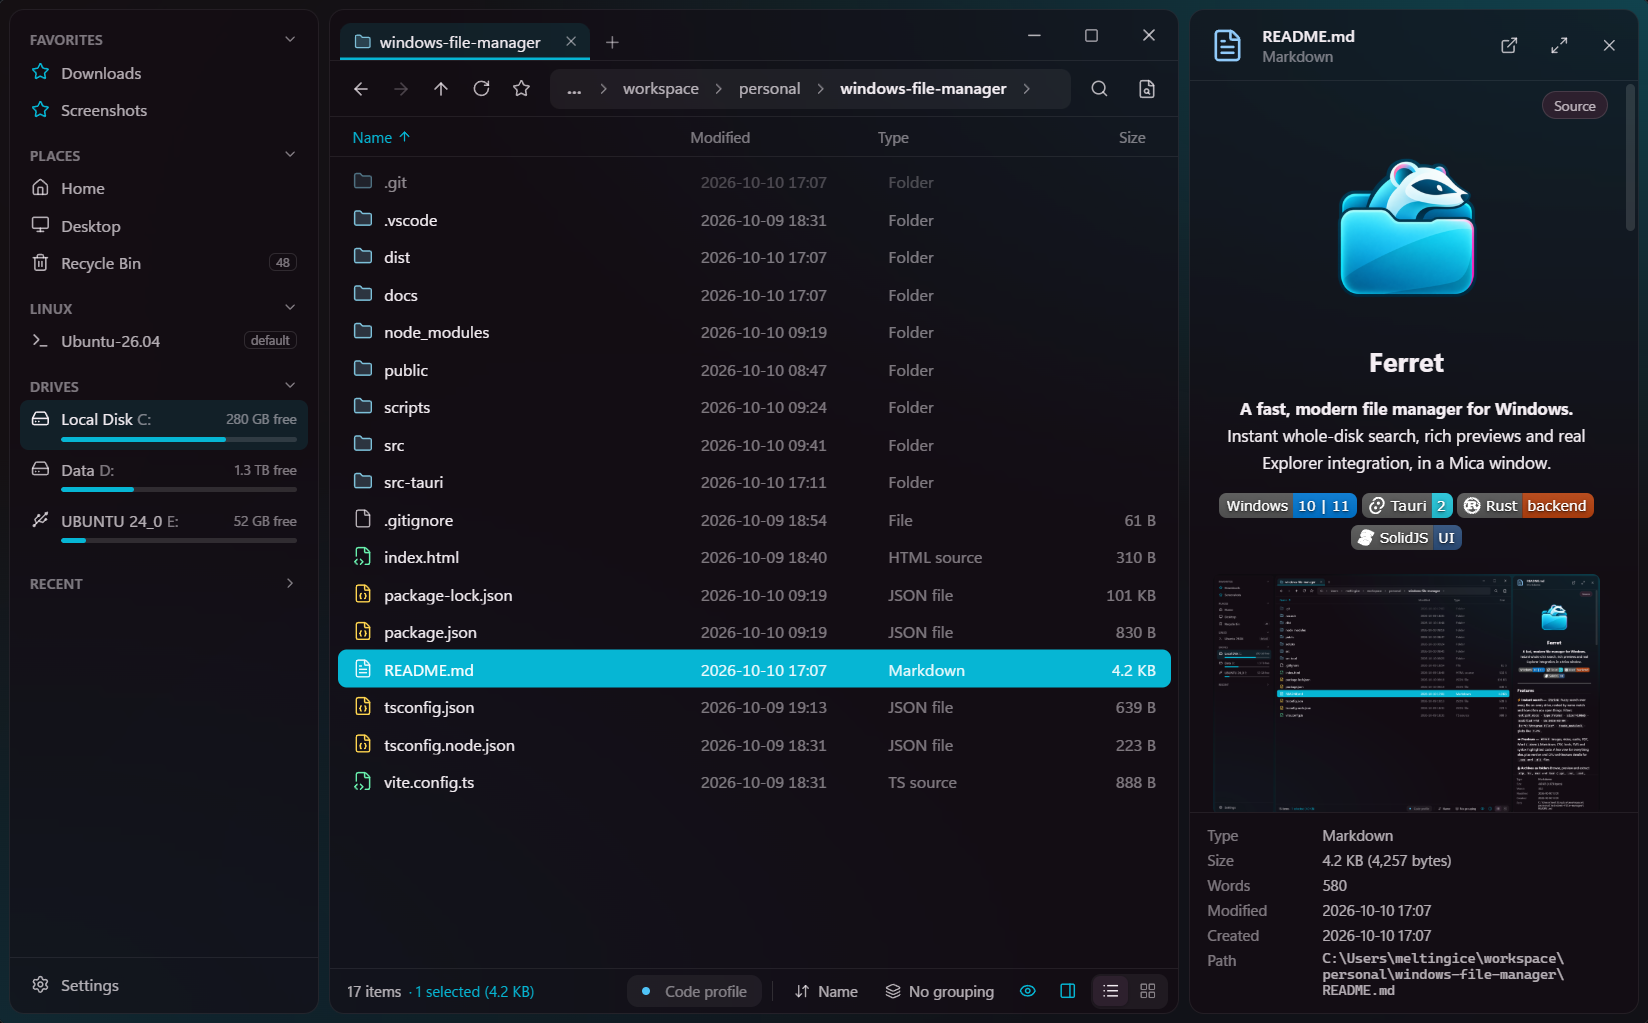
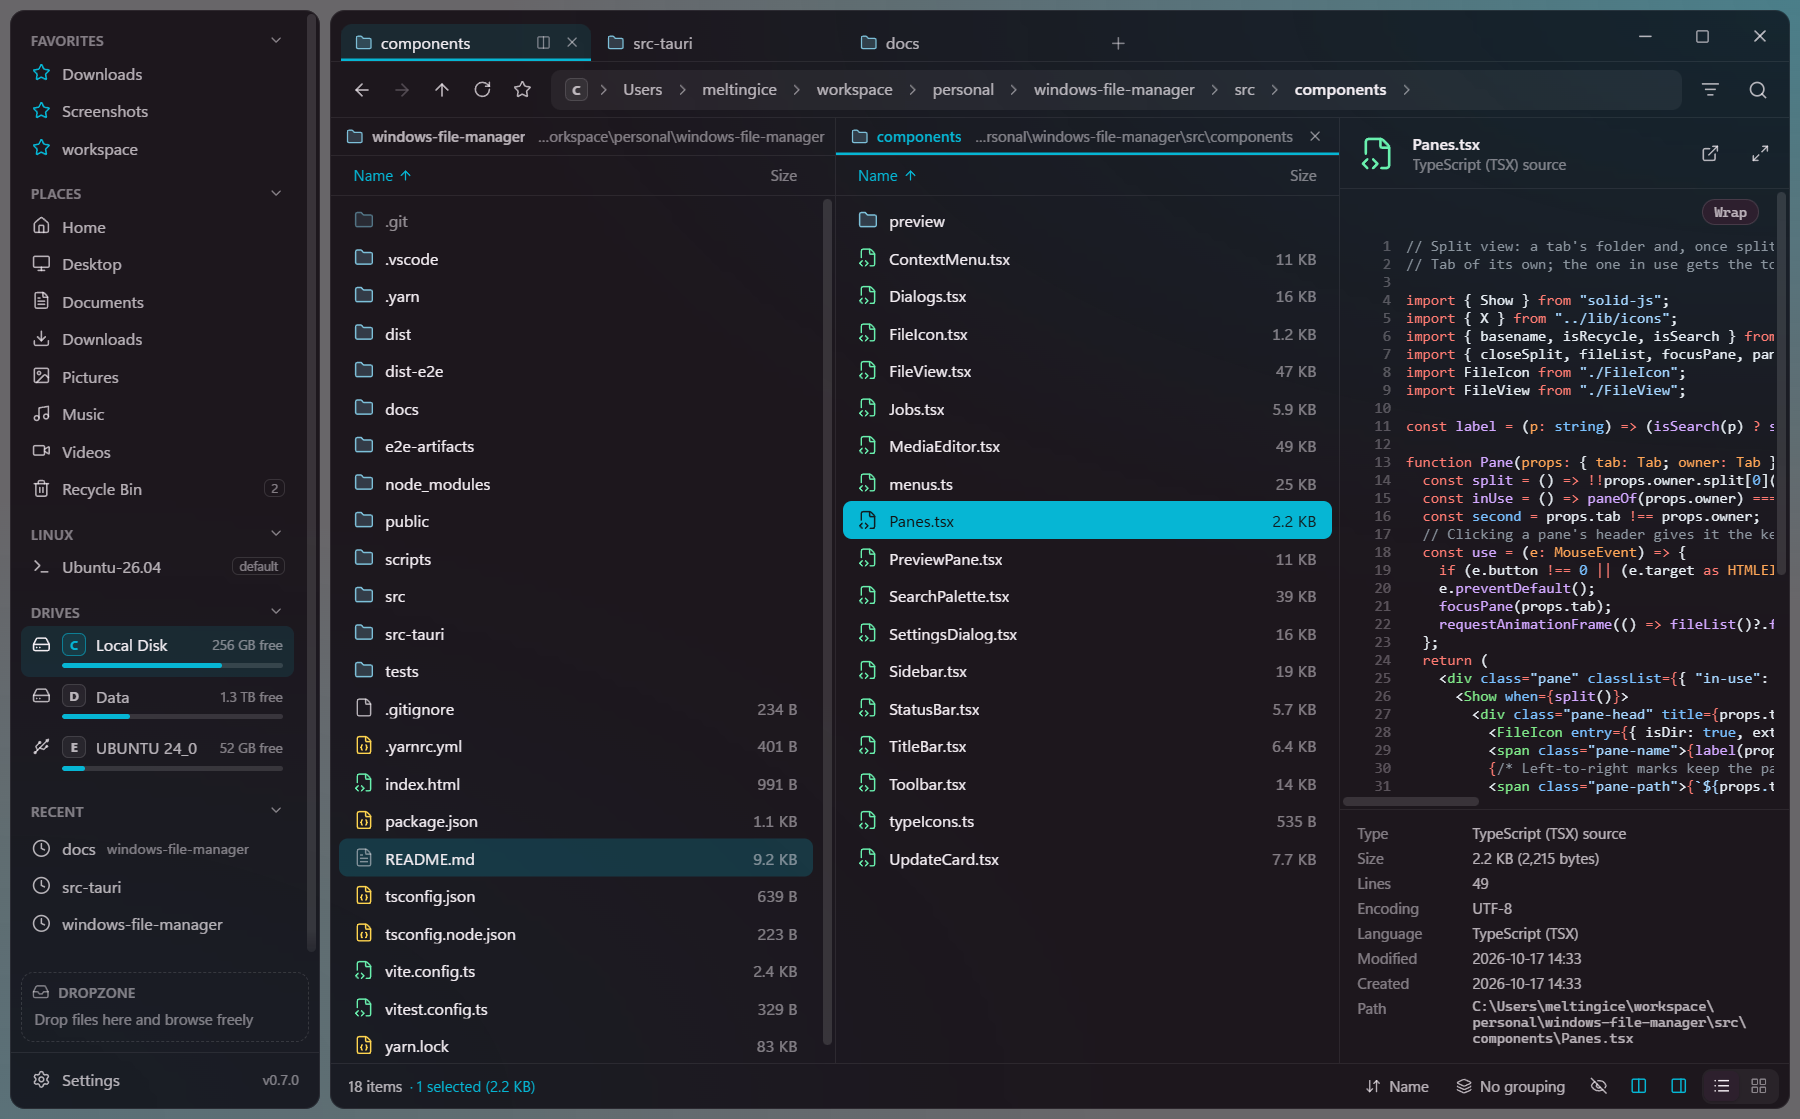
feat: update README with split view details and add demo GIF

Changed region(s): [[0.0, 0.0, 1.0, 1.0], [0.7118, 0.2121, 0.7427, 0.303], [0.9284, 0.0909, 0.9593, 0.1212]]

diff --git a/README.md b/README.md
@@ -17,7 +17,7 @@
 </p>
 
 <p align="center">
-  <img src="docs/hero.png" alt="Ferret showing a project folder with the README previewed in the side pane">
+  <img src="docs/hero.png" alt="Ferret in split view: a project folder next to its srccomponents folder, with Panes.tsx previewed with syntax highlighting">
 </p>
 
 ---
@@ -29,9 +29,11 @@ Fuzzy search over every file on every drive, ranked by name match and how often 
 Filters: `ext:pdf,docx` · `type:folder` · `size:>100mb` · `modified:<7d` · `dm:2026-03-04` · `in:"C:\Program Files"` · `!node_modules\` · globs like `*.rs`.
 Filters are suggested as you type (`Tab` completes them). Running WSL distros are searchable too: each is listed from inside Linux and refreshed every 15 minutes, and a stopped distro is never started just to be indexed.
 Search inside files with `content:"some text"`: it reads the files in the open folder (or the one named with `in:`), and each result shows the line with the text. The other filters narrow which files are read; binary files and `node_modules` are skipped.
+Recent searches come back when you open `Ctrl+K`, and any search can be saved to the sidebar (☆). `Ctrl+Shift+Enter` opens every match as a tab that lists them like a folder and stays current.
 
-**👁 Previews — `Alt+P`**
+**👁 Previews — `Alt+P`, or `Space` for Quick Look**
 Images, video, audio, PDF, Word (`.docx`), Markdown, CSV, fonts, SVG and syntax-highlighted code. A hex view for everything else, plus version and CPU architecture details for `.exe` and `.dll` files.
+A file changed while it's shown (saved from an editor, say) is shown again as it is now. Click the path in the details to copy it.
 
 **🗜 Archives as folders**
 Browse, preview and extract `zip`, `7z`, `rar` and `tar` (`.gz`, `.xz`, `.zst`, `.bz2`) archives as if they were folders, or compress files into one.
@@ -47,12 +49,17 @@ Right-click → **Compress video…** / **Compress picture…** opens an editor 
 **🪟 Feels like Windows, only faster**
 - The real Explorer context menu, including third-party entries (7-Zip, Git, VS Code, PowerToys…)
 - Properties and Open with dialogs, and a clipboard that works with Explorer
-- Copy and move in the background with progress and conflict handling, plus undo/redo
+- Copy, move and delete in the background with progress and conflict handling, plus undo/redo. Deleting thousands of items keeps the window responsive, a file that's in use asks **Try again / Skip / Skip all** instead of stopping everything, and emptying the Recycle Bin shows its progress and can be canceled
+- Asks before a rename changes a file's extension
 - Recycle Bin you can browse and restore from
 - Asks for admin rights only when a protected folder needs it, and any window can restart as administrator with its tabs intact
 - Drag files to and from other apps, including switching apps with `Alt+Tab` mid-drag
+- Middle-click autoscroll, like Explorer: press the mouse wheel and move away from that point to scroll (hold it, or click once to follow the mouse until the next click)
 - Windows 11-style menus, and each window is named after its folder in the taskbar and `Alt+Tab`, like Explorer
-- Optional: make Ferret the default file manager (Win+E, folder double-clicks), with a one-click switch back. Apps' "Show in folder" opens Ferret too, with the file selected when the app passes it to Explorer: a small background helper swaps in Ferret before Explorer's window appears, and Control Panel and other non-folder windows stay in Explorer
+- Optional: make Ferret the default file manager (Win+E, folder double-clicks), with a one-click switch back. Apps' "Show in folder" opens Ferret too, with the file selected when the app passes it to Explorer: a small background helper swaps in Ferret before Explorer's window appears, and Control Panel and other non-folder windows stay in Explorer. Uninstalling Ferret gives folders back to Explorer
+
+**◫ Split view — `Ctrl+\`**
+Two folders side by side in one tab, each with its own history and selection. `Tab` switches between them, and the toolbar, preview and shortcuts follow the one you're in. Copy or move to the other pane from **Copy to ▸** / **Move to ▸**, the command palette, or by dragging across. Split tabs come back after a restart.
 
 **🗂 Built for keyboards and many tabs**
 Tabs (`Ctrl+T`, `Ctrl+Shift+T`), a command palette (`Ctrl+Shift+P`), folder filter (`Ctrl+F`), editable path bar (`Ctrl+L`), favorites (`Ctrl+D`), and open in terminal (`` Ctrl+` ``) or VS Code.
@@ -65,10 +72,20 @@ Recent folders are ranked by how often and how recently you use them. A folder c
 WSL distros, network (UNC) paths and all drives in the sidebar. Folders refresh live when their contents change.
 
 **🎨 Make it yours**
-Dark, light or system theme, with a Mica, Acrylic or solid backdrop. Pick any accent color and a comfortable or compact layout.
+Dark, light or system theme, with a Mica, Acrylic or solid backdrop. Pick any accent color and a comfortable or compact layout. Short, Fluent-style animations, which you can turn off in Settings (and which stay off when Windows' animation effects are off).
 
 **🔄 Stays up to date**
 Updates come from GitHub Releases: Ferret shows what's new, then updates and restarts in one click. If something goes wrong, Settings → **Open logs** has the app's log files.
+
+---
+
+## Demo
+
+Code previews, filtering a folder, a Word document, `Ctrl+K` (names, then text inside files) and split view, in 30 seconds:
+
+<p align="center">
+  <img src="docs/demo.gif" alt="A 30-second tour of Ferret: code previews with syntax highlighting, filtering a folder as you type, a Word document rendered in the preview, Ctrl+K finding a file by name and then text inside files, and split view with a photo dragged from one pane to the other">
+</p>
 
 ---
 
